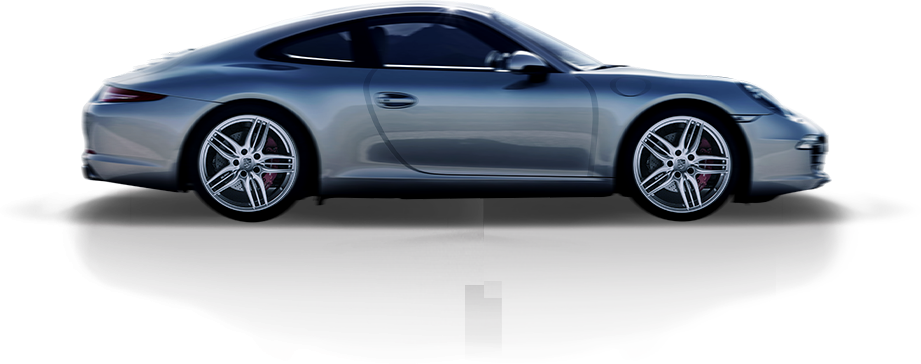
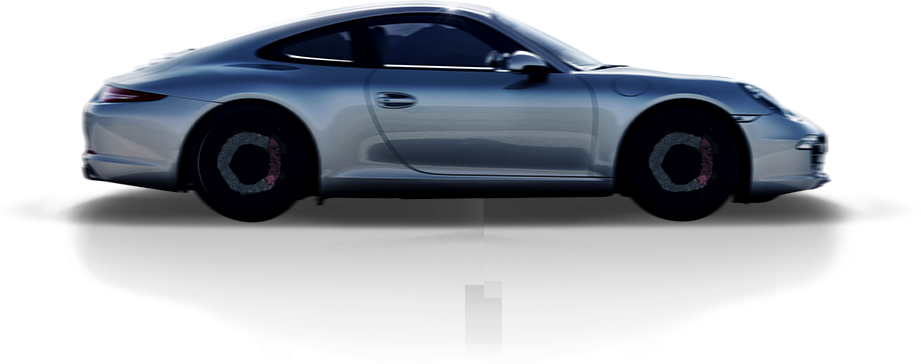
update wheel

Changed region(s): [[0.2128, 0.3022, 0.3344, 0.6044], [0.6688, 0.3022, 0.8208, 0.6044]]

diff --git a/css/base.css b/css/base.css
@@ -99,6 +99,7 @@ span.lpn-ghost {
 }
 #loading-mask{
   background : #dfdfdf url('../images/loading-bg.png') no-repeat center center;
+    background-size:100% 100%;
 }
 #loading-mask .lpn-panel{
   background: white;
@@ -294,8 +295,8 @@ span.lpn-ghost {
 .main-cars .car .end-wheel{
   background: url(../images/wheel.png) no-repeat;
   position: absolute;
-  height: 95px;
-  width: 95px;
+  height: 94px;
+  width: 94px;
   top: 116px;
   left: 201px;
 }
